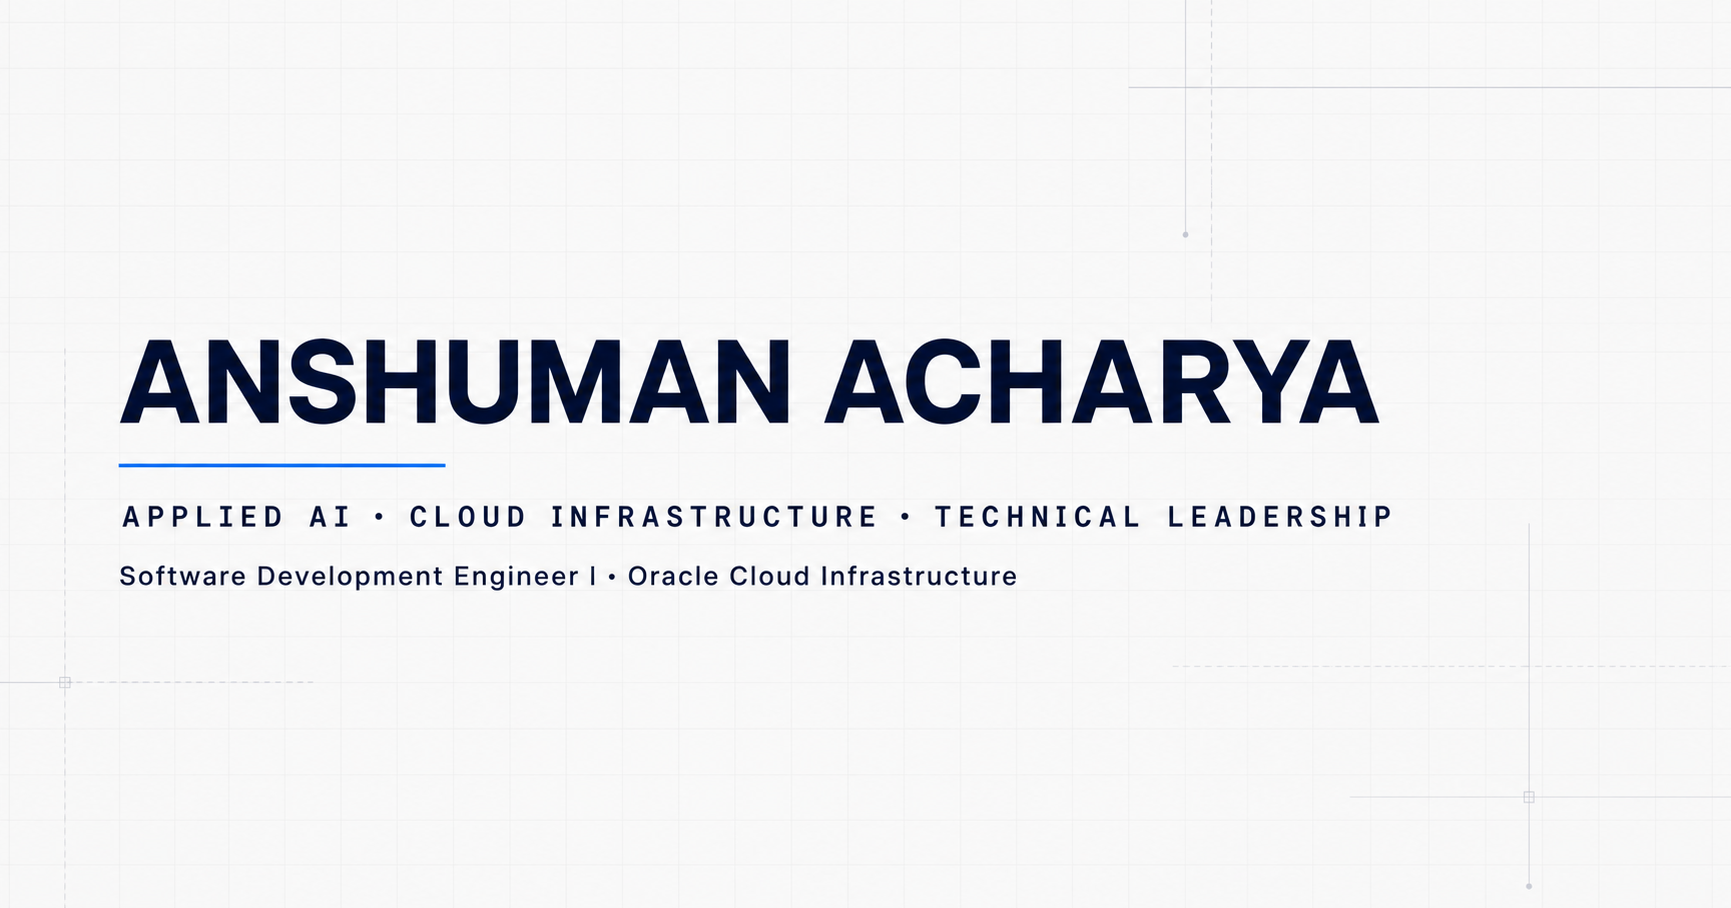
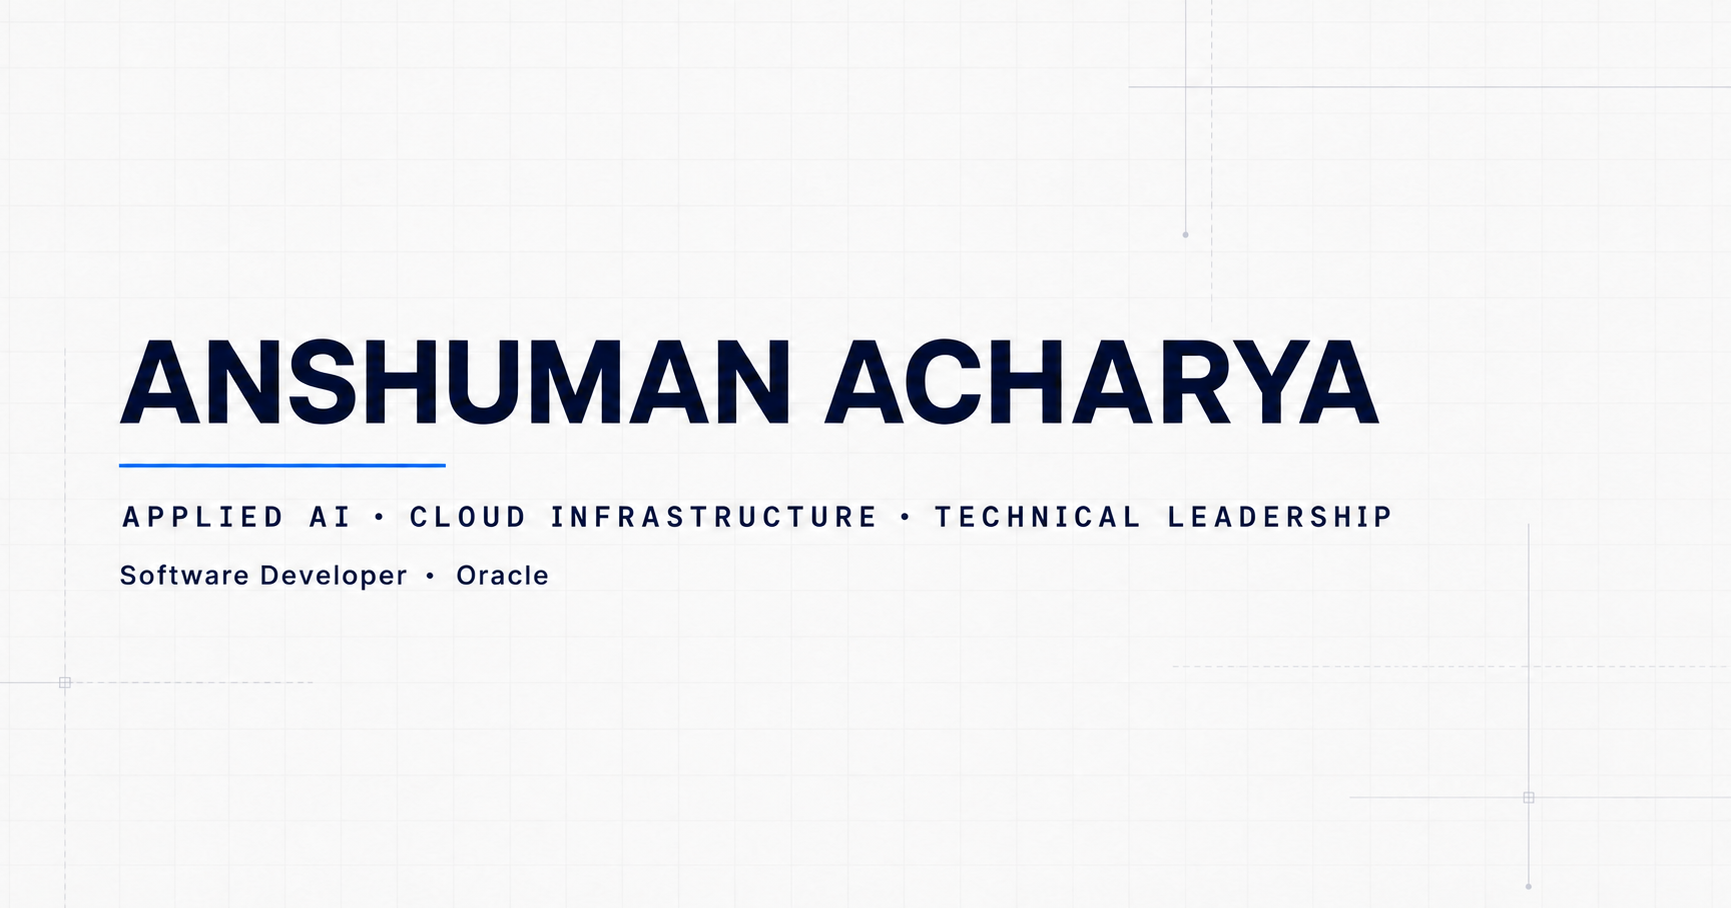
Update Oracle experience timeline

diff --git a/app/page.tsx b/app/page.tsx
@@ -58,10 +58,10 @@ function HighlightedText({ text }: { text: string }) {
 
 const experience = [
   {
-    dates: 'Jul 2024 — Present',
-    company: 'Oracle Cloud Infrastructure',
-    role: 'Software Development Engineer · Network Layer',
-    location: 'Bengaluru, India',
+    dates: 'Jul 2025 — Present',
+    company: 'Oracle · Full-time',
+    role: 'Software Developer',
+    location: 'Bengaluru, Karnataka, India · On-site',
     summary:
       'Build AI-assisted tooling, backend automation, and rollout systems for OCI network infrastructure.',
     details: [
@@ -71,10 +71,10 @@ const experience = [
     ],
   },
   {
-    dates: 'May 2024 — Jul 2024',
-    company: 'Oracle Cloud Infrastructure',
-    role: 'Server Tech Intern',
-    location: 'Bengaluru, India',
+    dates: 'May 2024 — Jun 2024',
+    company: 'Oracle · Internship',
+    role: 'Software Development Intern',
+    location: 'Bengaluru, Karnataka, India',
     summary:
       'Automated repeatable cloud-infrastructure deployment work at fleet scale.',
     details: [
@@ -257,8 +257,8 @@ const personJsonLd = {
   '@context': 'https://schema.org',
   '@type': 'Person',
   name: 'Anshuman Acharya',
-  jobTitle: 'Software Development Engineer',
-  worksFor: { '@type': 'Organization', name: 'Oracle Cloud Infrastructure' },
+  jobTitle: 'Software Developer',
+  worksFor: { '@type': 'Organization', name: 'Oracle' },
   alumniOf: {
     '@type': 'CollegeOrUniversity',
     name: 'National Institute of Technology, Rourkela',
@@ -332,7 +332,7 @@ export default function Home() {
         <div className="corporate-hero-copy">
           <p className="corporate-eyebrow">
             <span aria-hidden="true" />
-            Software Development Engineer · Oracle Cloud Infrastructure
+            Software Developer · Oracle
           </p>
           <h1>Anshuman Acharya</h1>
           <p className="corporate-intro">
@@ -454,7 +454,7 @@ export default function Home() {
           </header>
 
           <div className="experience-total">
-            <strong>2+ years</strong>
+            <strong>1.5+ years</strong>
             <span>Total professional experience</span>
             <small>Cloud · AI · Networking · Mobile</small>
           </div>

diff --git a/app/layout.tsx b/app/layout.tsx
@@ -18,7 +18,7 @@ export const metadata: Metadata = {
   metadataBase: new URL(siteOrigin),
   title: 'Anshuman Acharya — Applied AI, Cloud Infrastructure & Technical Leadership',
   description:
-    'Software Development Engineer at Oracle Cloud Infrastructure building grounded AI tools, backend software, cloud automation, and network infrastructure systems.',
+    'Software Developer at Oracle building grounded AI tools, backend software, cloud automation, and Oracle Cloud Infrastructure network systems.',
   authors: [{ name: 'Anshuman Acharya' }],
   creator: 'Anshuman Acharya',
   keywords: [
@@ -40,7 +40,7 @@ export const metadata: Metadata = {
   ],
   openGraph: {
     title: 'Anshuman Acharya — Applied AI, Cloud Infrastructure & Technical Leadership',
-    description: 'Software Development Engineer working across applied AI, backend systems, and cloud networking at Oracle Cloud Infrastructure.',
+    description: 'Software Developer working across applied AI, backend systems, and Oracle Cloud Infrastructure networking at Oracle.',
     url: '/',
     siteName: 'Anshuman Acharya',
     images: [
@@ -56,7 +56,7 @@ export const metadata: Metadata = {
   twitter: {
     card: 'summary_large_image',
     title: 'Anshuman Acharya — Applied AI, Cloud Infrastructure & Technical Leadership',
-    description: 'Software Development Engineer working across applied AI, backend systems, and cloud networking at Oracle Cloud Infrastructure.',
+    description: 'Software Developer working across applied AI, backend systems, and Oracle Cloud Infrastructure networking at Oracle.',
     images: ['/og.png'],
   },
   robots: {

diff --git a/README.md b/README.md
@@ -1,6 +1,6 @@
 # Anshuman Acharya — Technical Portfolio
 
-Recruiter-facing portfolio for Anshuman Acharya, Software Development Engineer at Oracle Cloud Infrastructure.
+Recruiter-facing portfolio for Anshuman Acharya, Software Developer at Oracle.
 
 **Live site:** [anshhu-man.github.io](https://anshhu-man.github.io/)
 
